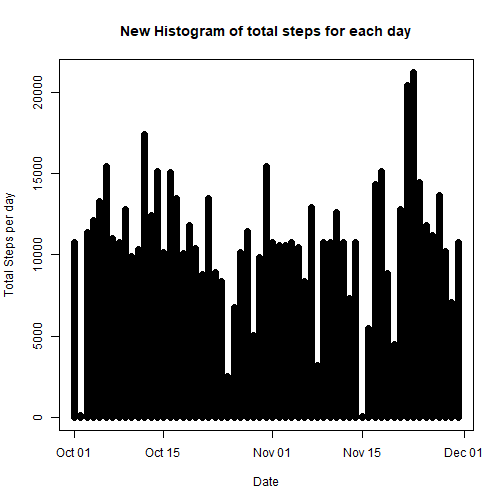
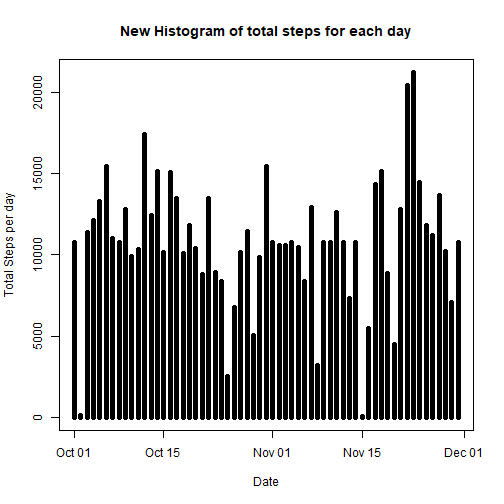
Add files via upload

Changed region(s): [[0.1488, 0.1488, 0.9226, 0.8333]]

diff --git a/PA1_template.md b/PA1_template.md
@@ -38,7 +38,7 @@ date_amd <- amd %>%
                 summarise(total_steps = sum(steps))
 
 # Plot a histogram by date
-with(date_amd, plot(date, total_steps, type = 'h', xlab = 'Date', ylab = 'Total Steps per day', main = 'Histogram of total steps for each day', lwd = 7))
+with(date_amd, plot(date, total_steps, type = 'h', xlab = 'Date', ylab = 'Total Steps per day', main = 'Histogram of total steps for each day', lwd = 5))
 ```
 
 ![plot of chunk histo steps](figure/histo steps-1.png)
@@ -114,7 +114,7 @@ new_date_amd <- complete_amd %>%
                     summarise(new_total_steps = round(sum(steps), 2))
 
 # NEW Histogram after replacing NA values
-with(new_date_amd, plot(date, new_total_steps, type = 'h', xlab = 'Date', ylab = 'Total Steps per day', main = 'New Histogram of total steps for each day', lwd = 7))
+with(new_date_amd, plot(date, new_total_steps, type = 'h', xlab = 'Date', ylab = 'Total Steps per day', main = 'New Histogram of total steps for each day', lwd = 5))
 ```
 
 ![plot of chunk histo new steps](figure/histo new steps-1.png)
